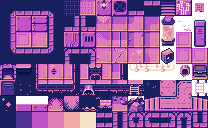
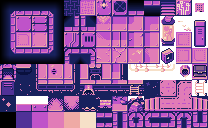
Un environnement plus meilleur

diff --git a/Assets/Scripts/Common/World/WorldRebuilder.cs b/Assets/Scripts/Common/World/WorldRebuilder.cs
@@ -1,5 +1,6 @@
 using System.Collections;
 using System.Collections.Generic;
+using System.Linq;
 using ubv.common.world.cellType;
 using UnityEngine;
 using UnityEngine.Tilemaps;
@@ -15,9 +16,18 @@ namespace ubv.client.world
         [SerializeField] private Tilemap m_playerSpawn;
 
         // list of tiles 
-        [SerializeField] private Tile m_defaultFloorTile;
+        [SerializeField] private Tile m_floorCenterTile;
+        [SerializeField] private Tile m_floorBottomLeftTile;
+        [SerializeField] private Tile m_floorTopLeftTile;
+        [SerializeField] private Tile m_floorBottomRightTile;
+        [SerializeField] private Tile m_floorTopRightTile;
+
         [SerializeField] private Tile m_defaultDoorTile;
-        [SerializeField] private Tile m_defaultInteractableTile;
+        [SerializeField] private Tile m_interactableDefaultTile;
+        [SerializeField] private Tile m_interactableTopRightTile;
+        [SerializeField] private Tile m_interactableBottomRightTile;
+        [SerializeField] private Tile m_interactableBottomLeftTile;
+        [SerializeField] private Tile m_interactableTopLeftTile;
         [SerializeField] private Tile m_defaultPlayerSpawnTile;
 
         [SerializeField] private Tile m_defaultWallTile;
@@ -77,6 +87,17 @@ namespace ubv.client.world
             // créer arrays de tile ensuite call setTiles ?
             Vector3Int pos = new Vector3Int(0, 0, 0);
 
+            int mapWidth = cellInfos.GetLength(0);
+            int mapHeight = cellInfos.GetLength(1);
+
+            int xHalf = mapWidth / 2;
+            int xOneThird = mapWidth / 3;
+            int xTwoThird = 2 * mapWidth / 3;
+
+            int yHalf = mapHeight / 2;
+            int yOneThird = mapHeight / 3;
+            int yTwoThird = 2 * mapHeight / 3;
+
             List<Tile> wallCells =          new List<Tile>();
             List<Tile> floorCells =         new List<Tile>();
             List<Tile> doorCells =          new List<Tile>();
@@ -89,9 +110,11 @@ namespace ubv.client.world
             List<Vector3Int> doorButtonPos =  new List<Vector3Int>();
             List<Vector3Int> playerSpawnPos = new List<Vector3Int>();
 
-            for (int x = 0; x < cellInfos.GetLength(0); x++)
+            int sectionButtonCounter = 0;
+
+            for (int x = 0; x < mapWidth; x++)
             {
-                for (int y = 0; y < cellInfos.GetLength(1); y++)
+                for (int y = 0; y < mapHeight; y++)
                 {
                     LogicCell cell = cellInfos[x, y].CellFromBytes();
                     LogicCell leftCell = cellInfos[x, y].CellFromBytes();
@@ -103,6 +126,8 @@ namespace ubv.client.world
                     LogicCell diagoUpRightCell = cellInfos[x, y].CellFromBytes();
                     LogicCell diagoBottomLeftCell = cellInfos[x, y].CellFromBytes();
                     LogicCell diagoBottomRightCell = cellInfos[x, y].CellFromBytes();
+
+                    
 
 
                     if (x <= 0 ) {
@@ -246,35 +271,82 @@ namespace ubv.client.world
                     }
                     else if (cell is FloorCell)
                     {
-                        floorCells.Add(m_defaultFloorTile);
+                        if (pos.x > xOneThird && pos.x < xTwoThird && pos.y > yOneThird && pos.y < yTwoThird)
+                            floorCells.Add(m_floorCenterTile);
+                        else if (pos.x < xHalf && pos.y < yHalf) 
+                            floorCells.Add(m_floorBottomLeftTile);
+                        else if (pos.x < xHalf && pos.y >= yHalf)
+                            floorCells.Add(m_floorTopLeftTile);
+                        else if (pos.x >= xHalf && pos.y < yHalf)
+                            floorCells.Add(m_floorBottomRightTile);
+                        else if (pos.x >= xHalf && pos.y >= yHalf)
+                            floorCells.Add(m_floorTopRightTile);
+
                         floorPos.Add(pos);
                     }
                     else if (cell is DoorCell door)
                     {
                         doorCells.Add(m_defaultDoorTile);
                         doorPos.Add(pos);
-                        floorCells.Add(m_defaultFloorTile);
+
+                        if (pos.x > xOneThird && pos.x < xTwoThird && pos.y > yOneThird && pos.y < yTwoThird)
+                            floorCells.Add(m_floorCenterTile);
+                        else if (pos.x < xHalf && pos.y < yHalf)
+                            floorCells.Add(m_floorBottomLeftTile);
+                        else if (pos.x < xHalf && pos.y >= yHalf)
+                            floorCells.Add(m_floorTopLeftTile);
+                        else if (pos.x >= xHalf && pos.y < yHalf)
+                            floorCells.Add(m_floorBottomRightTile);
+                        else if (pos.x >= xHalf && pos.y >= yHalf)
+                            floorCells.Add(m_floorTopRightTile);
+
                         floorPos.Add(pos);
                         AddToDoorList(door, pos);
                     }
                     else if (cell is DoorButtonCell)
                     {
-                        doorButtonCells.Add(m_defaultInteractableTile);
+                        doorButtonCells.Add(m_interactableDefaultTile);
                         doorButtonPos.Add(pos);
                     }
                     else if (cell is SectionButton)
                     {
-                        doorButtonCells.Add(m_defaultInteractableTile);
+                        doorButtonCells.Add(m_interactableDefaultTile);
                         doorButtonPos.Add(pos);
                     }
                     else if (cell is SectionDoorButtonCell)
                     {
-                        doorButtonCells.Add(m_defaultInteractableTile);
+                        if (cellInfos[x - 3, y].CellFromBytes() is SectionDoorButtonCell == false &&
+                            cellInfos[x + 3, y].CellFromBytes() is SectionDoorButtonCell)
+                        {
+                            doorButtonCells.Add(m_interactableTopRightTile);
+                            sectionButtonCounter++;
+                        }
+
+                        else if (cellInfos[x - 3, y].CellFromBytes() is SectionDoorButtonCell &&
+                                 cellInfos[x + 3, y].CellFromBytes() is SectionDoorButtonCell && sectionButtonCounter == 1)
+                        {
+                            doorButtonCells.Add(m_interactableBottomRightTile);
+                            sectionButtonCounter++;
+                        }
+                        else if (cellInfos[x - 3, y].CellFromBytes() is SectionDoorButtonCell &&
+                                 cellInfos[x + 3, y].CellFromBytes() is SectionDoorButtonCell && sectionButtonCounter == 2)
+                        {
+                            doorButtonCells.Add(m_interactableBottomLeftTile);
+                            sectionButtonCounter++;
+                        }
+                        else if (cellInfos[x - 3, y].CellFromBytes() is SectionDoorButtonCell &&
+                                 cellInfos[x + 3, y].CellFromBytes() is SectionDoorButtonCell == false)
+                        {
+                            doorButtonCells.Add(m_interactableTopLeftTile);
+                            sectionButtonCounter++;
+                        }
+                        else
+                            doorButtonCells.Add(m_interactableDefaultTile);
                         doorButtonPos.Add(pos);
                     }
                     else if (cell is FinalButtonCell)
                     {
-                        doorButtonCells.Add(m_defaultInteractableTile);
+                        doorButtonCells.Add(m_interactableDefaultTile);
                         doorButtonPos.Add(pos);
                     }
                     else if (cell is PlayerSpawnCell)
@@ -284,6 +356,9 @@ namespace ubv.client.world
                     }
                 }
             }
+
+
+            
 
             m_walls.SetTiles(wallPos.ToArray(), wallCells.ToArray());
             m_floor.SetTiles(floorPos.ToArray(), floorCells.ToArray());
